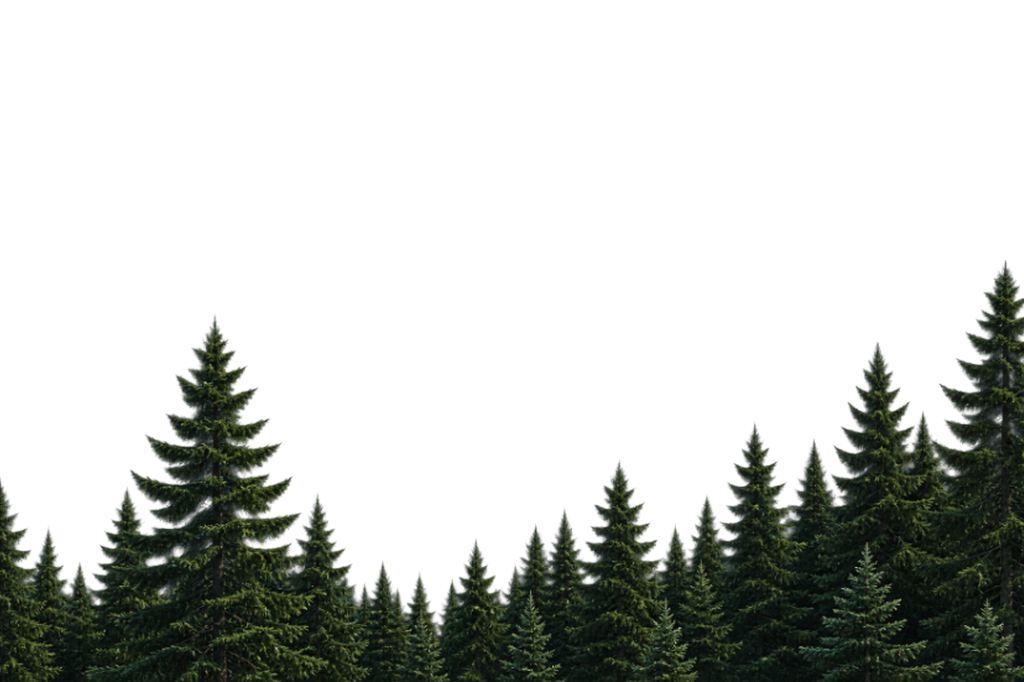
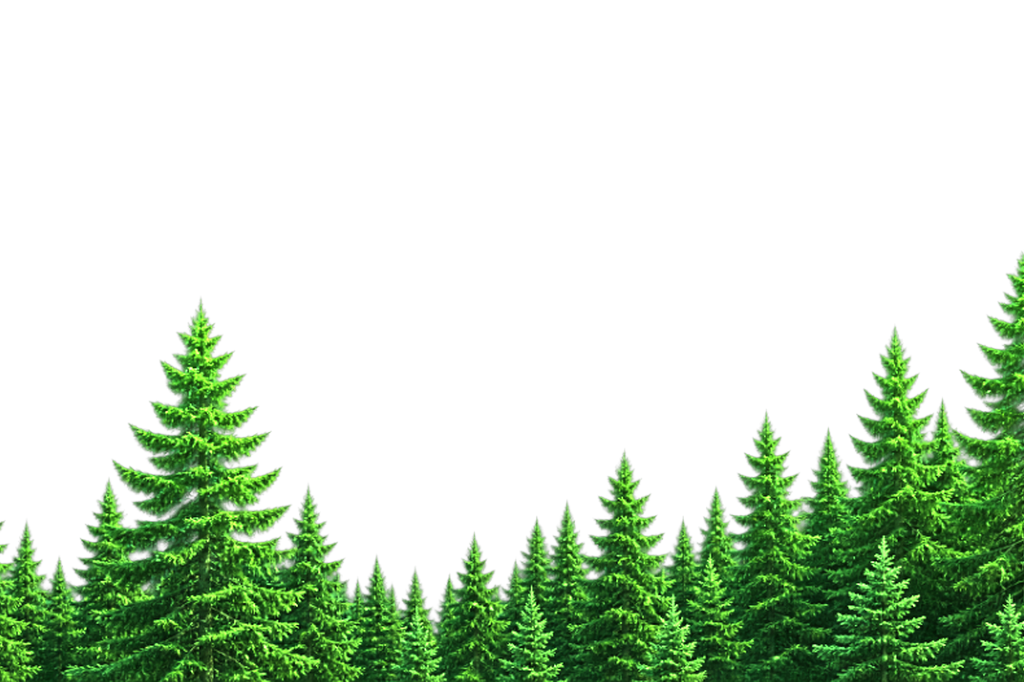
Fix background sky visibility and enhance 3D day trees foliage vibrance and exposure with cache-busting v=6.0

Changed region(s): [[0.0, 0.3695, 1.0, 1.0]]

diff --git a/index.html b/index.html
@@ -83,8 +83,8 @@
       
       <!-- Layer 1: Sky Background (Night & Day) -->
       <div class="cinematic-layer layer-sky" id="layer-sky">
-        <img src="assets/hero-sky.jpg" alt="Night sky" class="sky-bg-img sky-dark" id="sky-dark" />
-        <img src="assets/hero-sky-day.jpg" alt="Day sky" class="sky-bg-img sky-day" id="sky-day" />
+        <img src="assets/hero-sky.jpg?v=6.0" alt="Night sky" class="sky-bg-img sky-dark" id="sky-dark" />
+        <img src="assets/hero-sky-day.jpg?v=6.0" alt="Day sky" class="sky-bg-img sky-day" id="sky-day" />
       </div>
 
       <!-- Layer 2: 3D PORTFOLIO Typography (behind character) -->
@@ -105,8 +105,8 @@
       <!-- Layer 5: Foreground Character on Mossy Rock with Laptop & Globe (Dark & Day) -->
       <div class="cinematic-layer layer-character" id="layer-character">
         <div class="character-wrapper" id="character-wrapper">
-          <img src="assets/hero-subject.png?v=4" alt="Husni Mujeeb — Art Director" class="character-img char-dark" id="hero-character-dark" />
-          <img src="assets/hero-subject-day.png?v=4" alt="Husni Mujeeb — Art Director" class="character-img char-day" id="hero-character-day" />
+          <img src="assets/hero-subject.png?v=6.0" alt="Husni Mujeeb — Art Director" class="character-img char-dark" id="hero-character-dark" />
+          <img src="assets/hero-subject-day.png?v=6.0" alt="Husni Mujeeb — Art Director" class="character-img char-day" id="hero-character-day" />
         </div>
       </div>
 

diff --git a/script.js b/script.js
@@ -79,10 +79,16 @@ function initTreesWind() {
   if (!ctx) return;
 
   const darkImg = new Image();
+  let darkLoaded = false;
+  darkImg.onload = () => { darkLoaded = true; };
   darkImg.src = 'assets/hero-trees.png';
+  if (darkImg.complete) darkLoaded = true;
 
   const dayImg = new Image();
-  dayImg.src = 'assets/hero-trees-day.png';
+  let dayLoaded = false;
+  dayImg.onload = () => { dayLoaded = true; };
+  dayImg.src = 'assets/hero-trees-day.png?v=6.0';
+  if (dayImg.complete) dayLoaded = true;
 
   let width = 0, height = 0;
   function resize() {
@@ -91,12 +97,6 @@ function initTreesWind() {
   }
   resize();
   window.addEventListener('resize', resize);
-
-  let darkLoaded = false;
-  darkImg.onload = () => { darkLoaded = true; };
-
-  let dayLoaded = false;
-  dayImg.onload = () => { dayLoaded = true; };
 
   let time = 0;
   const sliceCount = 80;

diff --git a/style.css b/style.css
@@ -385,8 +385,8 @@ body.c-link  #c-ring { width: 70px; height: 70px; border-color: rgba(255,255,255
   opacity: 0;
   filter: brightness(1.02) contrast(1.04);
 }
-[data-theme="light"] .sky-dark { opacity: 0; }
-[data-theme="light"] .sky-day  { opacity: 1; }
+[data-theme="light"] .sky-dark { opacity: 0 !important; }
+[data-theme="light"] .sky-day  { opacity: 1 !important; }
 
 /* Layer 2: 3D PORTFOLIO Title */
 .layer-portfolio-title {
